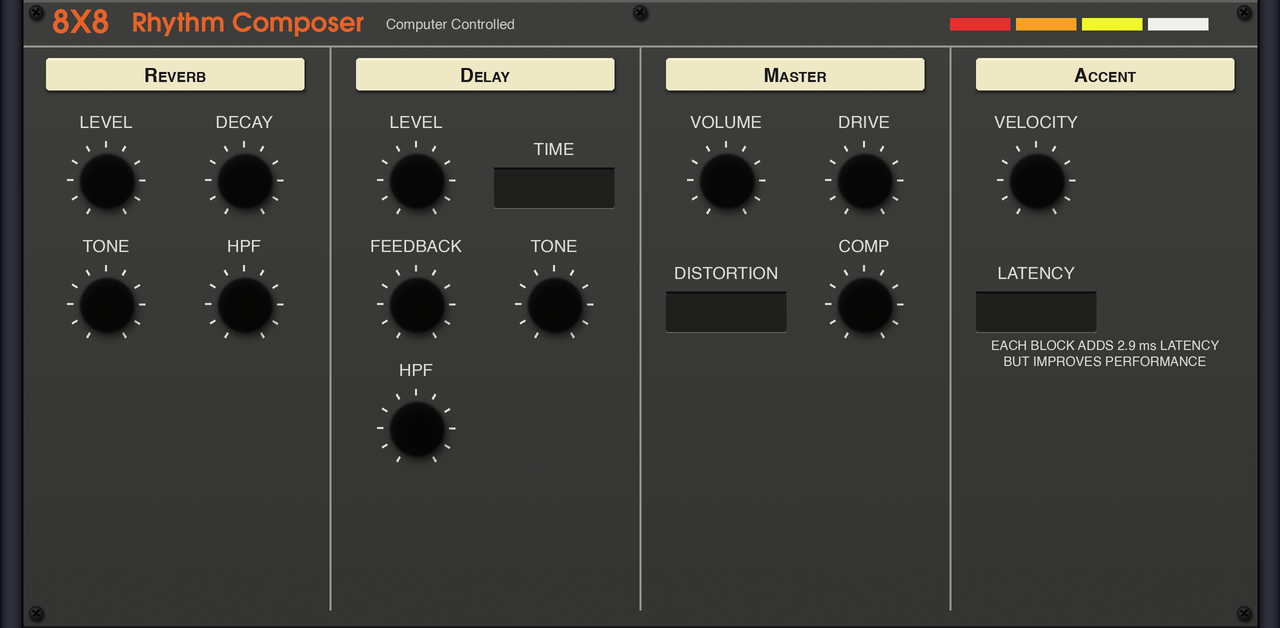
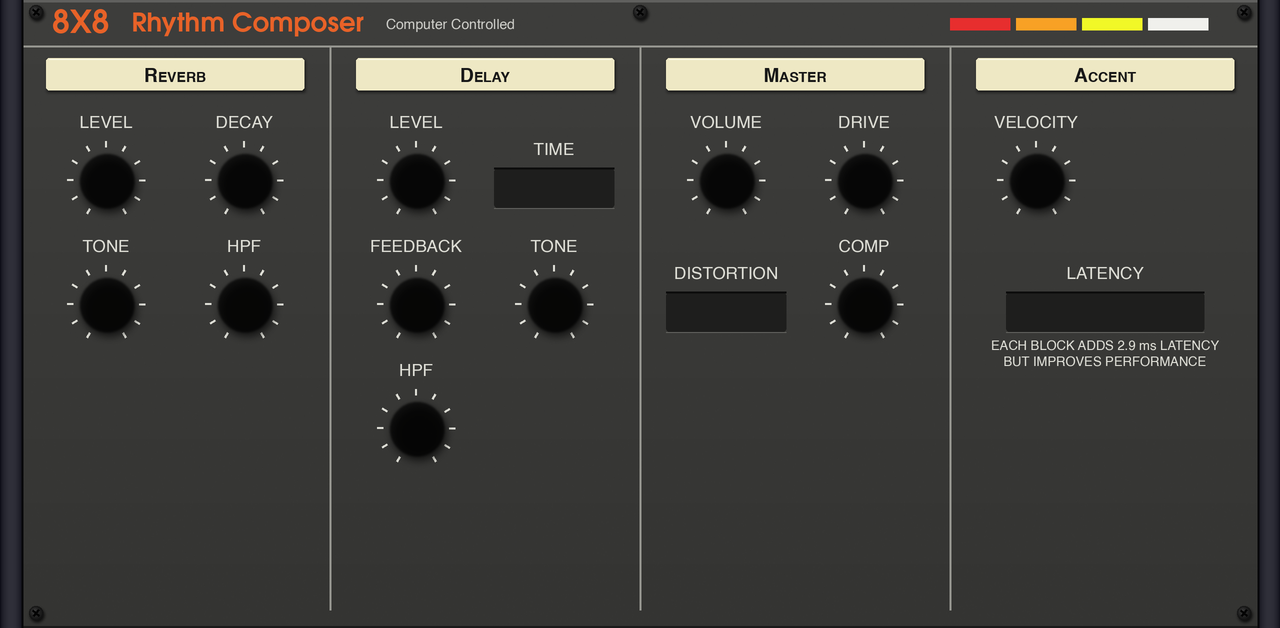
Latency dropdown: a wider box (190) centred in its column on 8X8, 9X9 and TR-MPC
'2 blocks (+5.8 ms)' was cut off in the 112/140 wide slot.

Claude-Session: https://claude.ai/code/session_01CpoP2tyczrc1RfDSUdufnj

Changed region(s): [[0.7812, 0.4236, 0.9375, 0.5446], [0.75, 0.4538, 0.8125, 0.5446]]

diff --git a/tools/drum_skin.py b/tools/drum_skin.py
@@ -280,10 +280,12 @@ class Tab:
         self.hi.alpha_composite(soft_shadow(self.hi.size, box, 1, 180, (1, 1)))
         self.knobs.append(dict(key=key, cx=cx, cy=cy, level=level, r=r))
 
-    def popup(self, key, cx, cy, name):
+    LATENCY_W = 190    # "2 blocks (+5.8 ms)" needs more than the usual slot
+
+    def popup(self, key, cx, cy, name, width=None):
         self.text(cx, cy - 38, name, self.label_size)
         fill, top, bottom = self.st["slot"]
-        pw = self.st.get("popup_w", 112)                         # wider for long option names
+        pw = width or (self.LATENCY_W if key == "latency" else self.st.get("popup_w", 112))   # wider for long option names
         x0, y0, x1, y1 = cx - pw // 2 - 4, cy - 20, cx + pw // 2 + 4, cy + 20     # a recessed slot the live field sits in
         self.d.rounded_rectangle((x0 * SS, y0 * SS, x1 * SS, y1 * SS), 4 * SS, fill=fill)
         self.d.line([(x0 * SS, y0 * SS), (x1 * SS, y0 * SS)], fill=top, width=2 * SS)
@@ -401,7 +403,7 @@ def plain_column(t, i, tile, top, lower, params):
         if key == "-":   # an empty place (a style's spacer)
             continue
         if params[key].get("type") == "enum":
-            t.popup(key, cx, cy + (8 if cy < r2 else 0), names[key])
+            t.popup(key, (ca + cb) // 2 if key == "latency" else cx, cy + (8 if cy < r2 else 0), names[key])   # Latency: its wide slot centred in the column
             for n, line in enumerate(captions.get(key, "").split("\n") if key in captions else []):
                 t.text((ca + cb) / 2, cy + (8 if cy < r2 else 0) + 34 + 16 * n, line, 13)   # centred in the column
         else:

diff --git a/tools/trmpc_skin.py b/tools/trmpc_skin.py
@@ -389,10 +389,10 @@ def fx_page(out):
     module_edges(kt, XM, title=True)
     kt.text(XM + PW / 2 + 6, TITLE_Y, "LATENCY", 17, (24, 24, 24), "bold")
     px, cy = PX0 + 3 * PPITCH, g["rows"][0]
-    kt.popup("x", XM + PW // 2, cy + 8, "BLOCKS")
+    kt.popup("x", XM + PW // 2, cy + 8, "BLOCKS", width=ds.Tab.LATENCY_W)
     for n, line in enumerate(("EACH BLOCK ADDS 2.9 ms LATENCY", "BUT IMPROVES PERFORMANCE")):
         kt.text(XM + PW / 2, cy + 8 + 34 + 16 * n, line, 13)
-    lines.append('popup cx=%d cy=%d w=112 h=36 label="" key=latency accent=%s' % (px + PW // 2, cy + 8 + Y_OFF, DIST_INK[kit]))
+    lines.append('popup cx=%d cy=%d w=%d h=36 label="" key=latency accent=%s' % (px + PW // 2, cy + 8 + Y_OFF, ds.Tab.LATENCY_W, DIST_INK[kit]))
     # SLOTS ON: a key per slot (off: it plays nothing, and on Gen2 its kit's circuit board is only built for slots that are on)
     gy = cy + 8 + 34 + 16 * 2 + 26
     kt.text(XM + PW / 2, gy, "SLOTS ON", 14, None, "bold")
